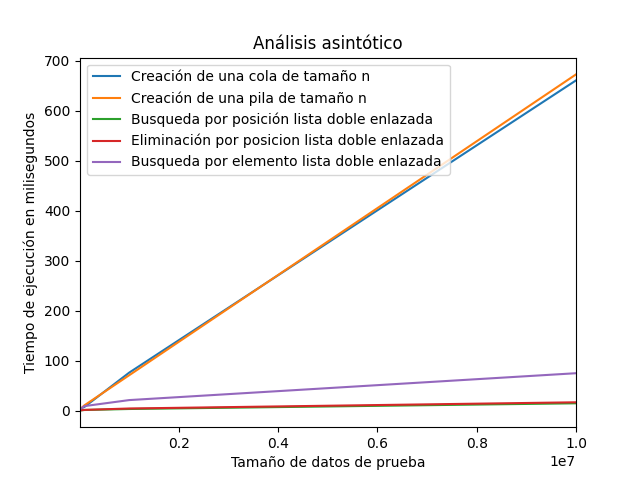
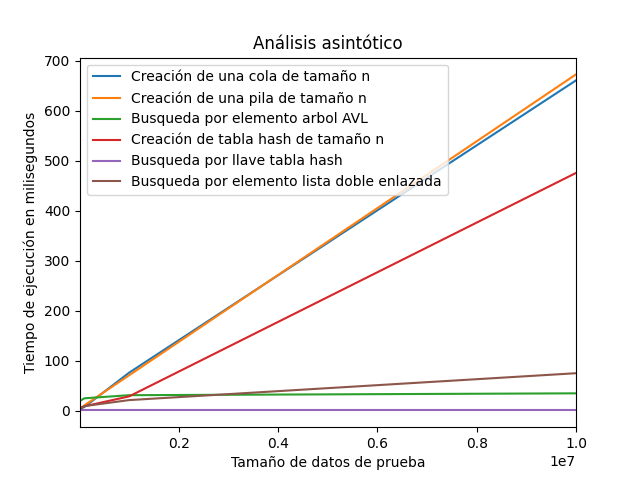
Actualizacion de tablas y graficos para el analisis e incorporacion del codigo utilizado en el analisis

diff --git a/src/analisis/analisis.java b/src/analisis/analisis.java
@@ -1,0 +1,113 @@
+package analisis;
+
+import java.io.BufferedReader;
+import java.io.File;
+import java.io.FileReader;
+import java.io.IOException;
+import java.util.ArrayList;
+import java.util.List;
+import java.util.concurrent.ThreadLocalRandom;
+
+import EstructurasDeDatos.Cola_ListaEnlazada;
+import EstructurasDeDatos.Entrada;
+import EstructurasDeDatos.HashTable;
+import EstructurasDeDatos.ListaDoblementeEnlazada;
+import EstructurasDeDatos.Pila_ListaEnlazada;
+import EstructurasDeDatos.ArbolAVL;
+
+
+public class analisis {
+    public static void main(String[] args) {
+
+        int n = 100000;
+        FileReader fileReader;
+        BufferedReader bufferedReader;
+        List<String> s = new ArrayList<String>();
+        
+        Cola_ListaEnlazada<String> cola = new Cola_ListaEnlazada<String>();
+        Pila_ListaEnlazada<String> pila = new Pila_ListaEnlazada<String>();
+        ListaDoblementeEnlazada<String> lista_doble = new ListaDoblementeEnlazada<String>(null);
+        ArbolAVL<String> arbolAVL = new ArbolAVL<String>();
+        String arreglo[] = new String[n];
+        HashTable<String> hash_table = new HashTable<>(n);
+
+        try {
+
+            File dataFile = new File("src/analisis/100k.txt");
+            fileReader = new FileReader(dataFile);
+            bufferedReader = new BufferedReader(fileReader);
+            String currentLine = bufferedReader.readLine();
+                    
+            
+            while(currentLine != null){
+
+                s.add(currentLine);
+                currentLine = bufferedReader.readLine();
+            }
+            
+            
+            bufferedReader.close();
+            fileReader.close();
+            
+        } catch (IOException e) {
+            System.out.println(e);
+        }
+
+        // int randomNum = ThreadLocalRandom.current().nextInt(1, n + 1);
+        
+        // // final long startTime = System.currentTimeMillis();
+
+        // for(String dato :s){
+        //     pila.insertar(dato);
+        // }
+        // final long endTime = System.currentTimeMillis();
+
+
+        // final long startTime = System.currentTimeMillis();
+
+        // for(String dato :s){
+        //     cola.insertar(dato);
+        // }
+
+        // final long endTime = System.currentTimeMillis();
+
+        // final long startTime = System.currentTimeMillis();
+
+        // for(String dato :s){
+        //     lista_doble.insertar(dato);
+        // }
+
+        // final long endTime = System.currentTimeMillis();
+
+        // final long startTime = System.currentTimeMillis();
+        for(String dato :s){
+            arbolAVL.insertar(dato);
+        }
+        
+        // final long endTime = System.currentTimeMillis();
+        
+        // final long startTime = System.currentTimeMillis();
+
+        for (int i = 0; i < s.size(); i++) {
+            Entrada<String> nuevaEntrada = new Entrada<String>(i,s.get(i));
+            hash_table.insertar(nuevaEntrada);
+        }
+        
+
+        // final long endTime = System.currentTimeMillis();
+
+        String str = "";
+        int pos = 0;
+        boolean info = false;
+        final long startTime = System.currentTimeMillis();
+        str = hash_table.find("49807");
+        // pos = lista_doble.buscarPos("10P5U44LK4");
+        // info = arbolAVL.buscarDato("ARV2UP2MC9");
+        final long endTime = System.currentTimeMillis();
+    
+        System.out.println("Total execution time: " + (endTime - startTime)+ " "+str+" " +" " +info+ " "+pos);
+
+        
+    }
+    
+}

diff --git a/src/analisis/fill_analisis.java b/src/analisis/fill_analisis.java
@@ -1,0 +1,76 @@
+package analisis;
+
+import java.io.BufferedWriter;
+import java.io.File;
+import java.io.FileWriter;
+import java.io.IOException;
+import java.io.Writer;
+import java.util.ArrayList;
+import java.util.List;
+
+public class fill_analisis {
+    
+
+private static final int ITERATIONS = 5;
+private static final double MEG = (Math.pow(1024, 2));
+private static final int RECORD_COUNT = 10000;
+private static final String RECORD = "Help I am trapped in a fortune cookie factory\n";
+private static final int RECSIZE = RECORD.getBytes().length;
+
+public static void main(String[] args) throws Exception {
+    List<String> records = new ArrayList<String>(RECORD_COUNT);
+    int size = 0;
+    for (int i = 0; i < RECORD_COUNT; i++) {
+        records.add(RECORD);
+        size += RECSIZE;
+    }
+    System.out.println(records.size() + " 'records'");
+    System.out.println(size / MEG + " MB");
+    
+    for (int i = 0; i < ITERATIONS; i++) {
+        System.out.println("\nIteration " + i);
+        
+        writeRaw(records);
+        writeBuffered(records, 8192);
+        writeBuffered(records, (int) MEG);
+        writeBuffered(records, 4 * (int) MEG);
+    }
+}
+
+private static void writeRaw(List<String> records) throws IOException {
+    File file = new File("src/analisis/10mil.txt");
+    try {
+        FileWriter writer = new FileWriter(file);
+        System.out.print("Writing raw... ");
+        write(records, writer);
+    } finally {
+        // comment this out if you want to inspect the files afterward
+        //file.delete();
+    }
+}
+
+private static void writeBuffered(List<String> records, int bufSize) throws IOException {
+    File file = new File("src/analisis/10mil.txt");
+    try {
+        FileWriter writer = new FileWriter(file);
+        BufferedWriter bufferedWriter = new BufferedWriter(writer, bufSize);
+    
+        System.out.print("Writing buffered (buffer size: " + bufSize + ")... ");
+        write(records, bufferedWriter);
+    } finally {
+        // comment this out if you want to inspect the files afterward
+        //file.delete();
+    }
+}
+
+private static void write(List<String> records, Writer writer) throws IOException {
+    long start = System.currentTimeMillis();
+    for (String record: records) {
+        writer.write(record);
+    }
+    // writer.flush(); // close() should take care of this
+    writer.close(); 
+    long end = System.currentTimeMillis();
+    System.out.println((end - start) / 1000f + " seconds");
+}
+}

diff --git a/src/analisis/grafica.py b/src/analisis/grafica.py
@@ -1,0 +1,30 @@
+import matplotlib.pyplot as plt;
+
+x=[10000,100000,1000000,10000000]
+
+y1=[4,8,76.4,660.4]
+y2=[3,11.2,71.2,672.4]
+# y3=[21.6,183.6,1869.6,30993]
+y4=[20,25.2,31.4,35.1]
+y5=[6,9.3,29,475.5]
+y6=[1,1,1,1]
+y7=[3.3,9.6,21.6,75.3]
+
+plt.xlim(10000,10000000)
+
+plt.plot(x, y1, label = "Creación de una cola de tamaño n")
+plt.plot(x, y2, label = "Creación de una pila de tamaño n")
+# plt.plot(x, y3, label = "Creación de un arbol AVL de tamaño n")
+plt.plot(x, y4, label = "Busqueda por elemento arbol AVL")
+plt.plot(x, y5, label = "Creación de tabla hash de tamaño n")
+plt.plot(x, y6, label = "Busqueda por llave tabla hash")
+plt.plot(x, y7, label = "Busqueda por elemento lista doble enlazada")
+
+plt.xlabel('Tamaño de datos de prueba')
+plt.ylabel('Tiempo de ejecución en milisegundos')
+plt.title('Análisis asintótico')
+
+plt.legend(loc = "upper left")
+plt.savefig('data/graficas.png')
+
+

diff --git a/src/analisis/fill.py b/src/analisis/fill.py
@@ -1,0 +1,12 @@
+import string    
+import random # define the random module  
+S = 10  # number of characters in the string.  
+# call random.choices() string module to find the string in Uppercase + numeric data.  
+
+N = 10000000    
+with open('src/analisis/10M.txt', 'a') as the_file:
+   for i in range (N):
+      ran = ''.join(random.choices(string.ascii_uppercase + string.digits, k = S))
+      the_file.write(ran+'\n')
+
+   
